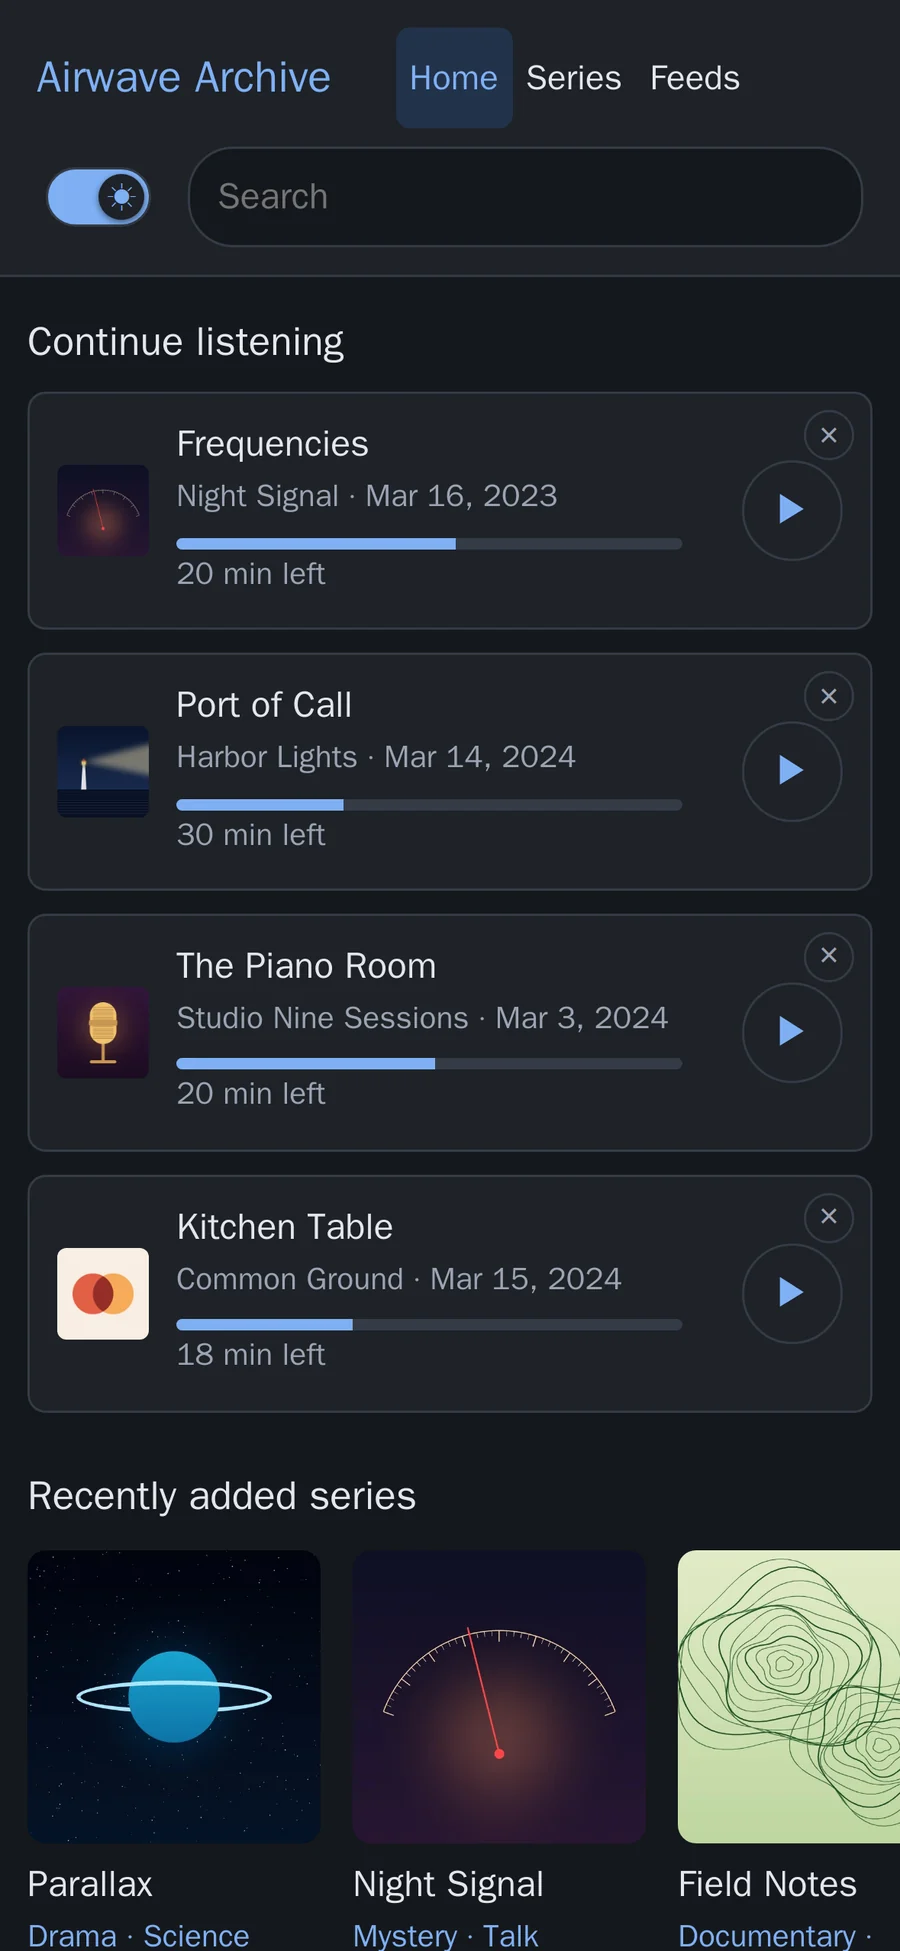
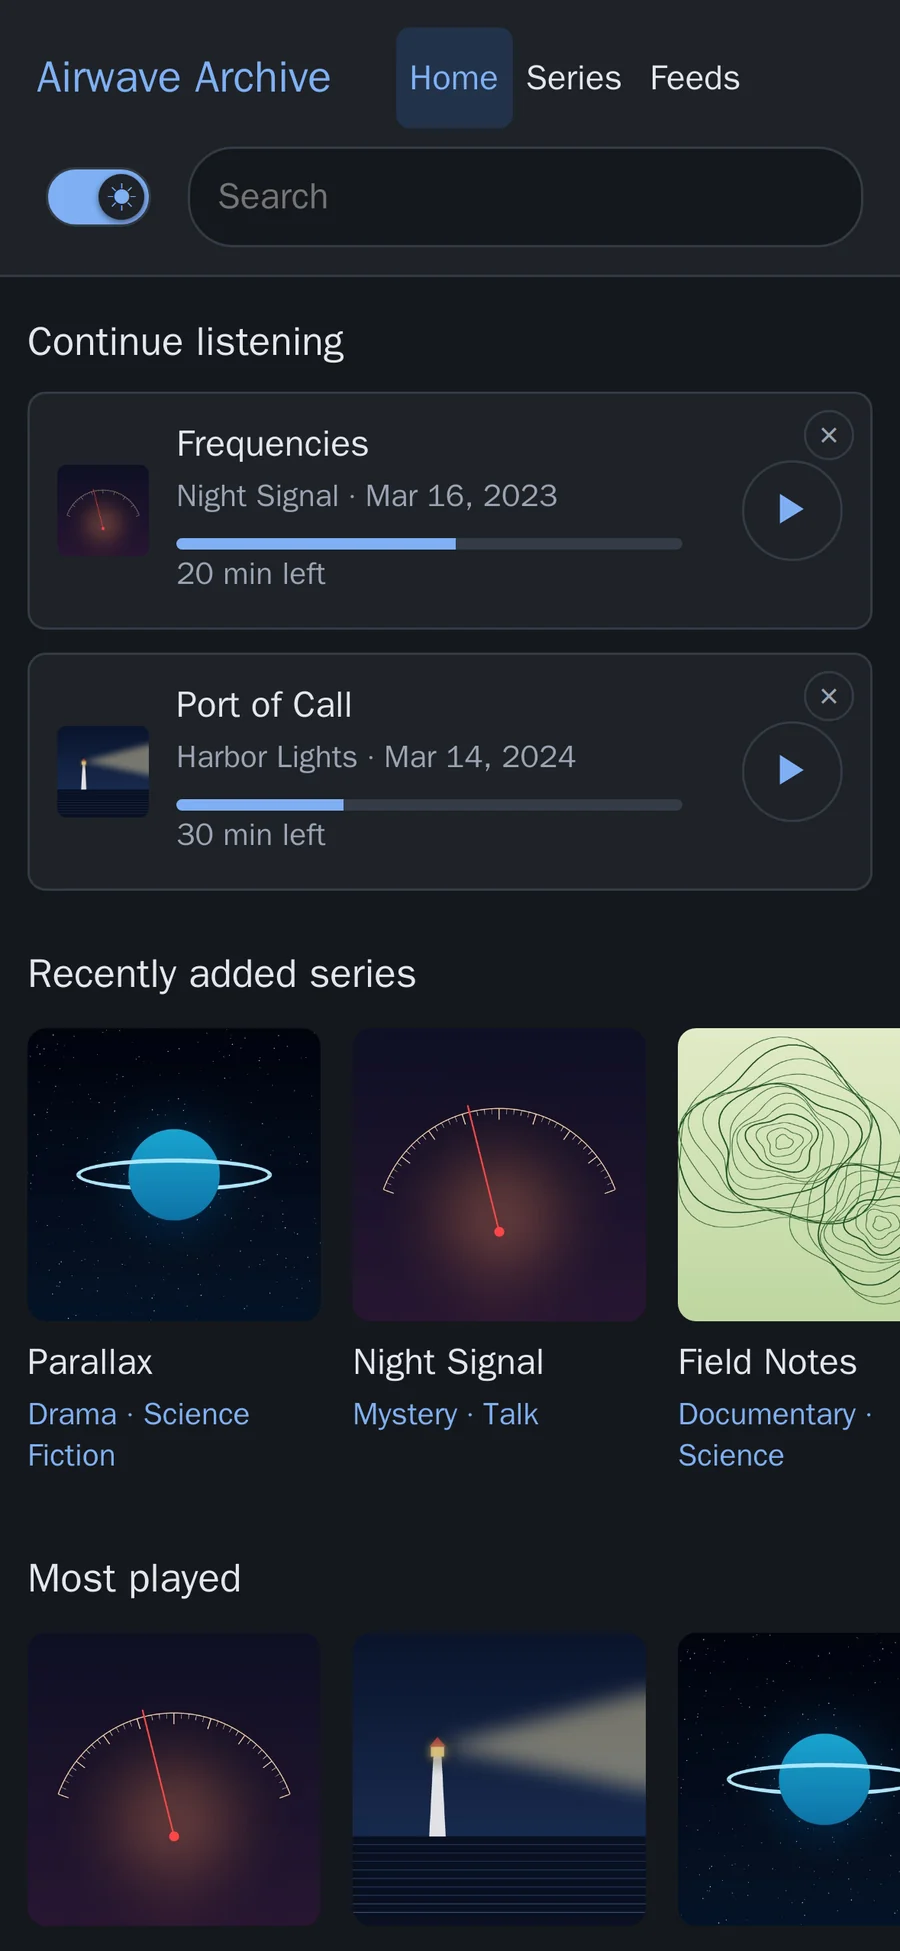
Phone card picture: only two Continue listening cards

diff --git a/tools/screenshot_mobile_home.py b/tools/screenshot_mobile_home.py
@@ -1,0 +1,18 @@
+import asyncio
+from playwright.async_api import async_playwright
+IPHONE = "Mozilla/5.0 (iPhone; CPU iPhone OS 18_0 like Mac OS X) AppleWebKit/605.1.15 (KHTML, like Gecko) Version/18.0 Mobile/15E148 Safari/604.1"
+# Only two "Continue listening" cards (the others are hidden for the picture).
+CSS = "footer.footer{display:none !important} .continue-list > .continue-item:nth-child(n+3){display:none !important}"
+async def main():
+    async with async_playwright() as p:
+        b = await p.chromium.launch()
+        for scheme in ("light", "dark"):
+            m = await (await b.new_context(viewport={"width": 393, "height": 852}, device_scale_factor=3, is_mobile=True,
+                                           has_touch=True, color_scheme=scheme, user_agent=IPHONE)).new_page()
+            await m.goto("http://localhost:8090/", wait_until="networkidle")
+            await m.add_style_tag(content=CSS)
+            await m.wait_for_timeout(400)
+            print(scheme, await m.locator(".continue-item:visible").count(), "cards")
+            await m.screenshot(path=f"/shots/mobile-home-{scheme}.png")
+        await b.close()
+asyncio.run(main())

diff --git a/tools/README.md b/tools/README.md
@@ -14,7 +14,8 @@ filled with **invented** series (abstract generated artwork, silent audio).
    some played, and make and publish a feed for "Night Signal". For the
    calendar picture, many episodes were moved into March 2024 in the demo's
    own database.
-3. `screenshots.py` and `screenshot_inbox.py` take the pictures with
+3. `screenshots.py`, `screenshot_inbox.py` and `screenshot_mobile_home.py`
+   (the phone's home page, with only two "Continue listening" cards) take the pictures with
    Playwright (the `mcr.microsoft.com/playwright/python` image, run with
    `--network host`).
 4. The PNGs are converted to WebP (desktop 2400 px wide, phone 900 px) into
